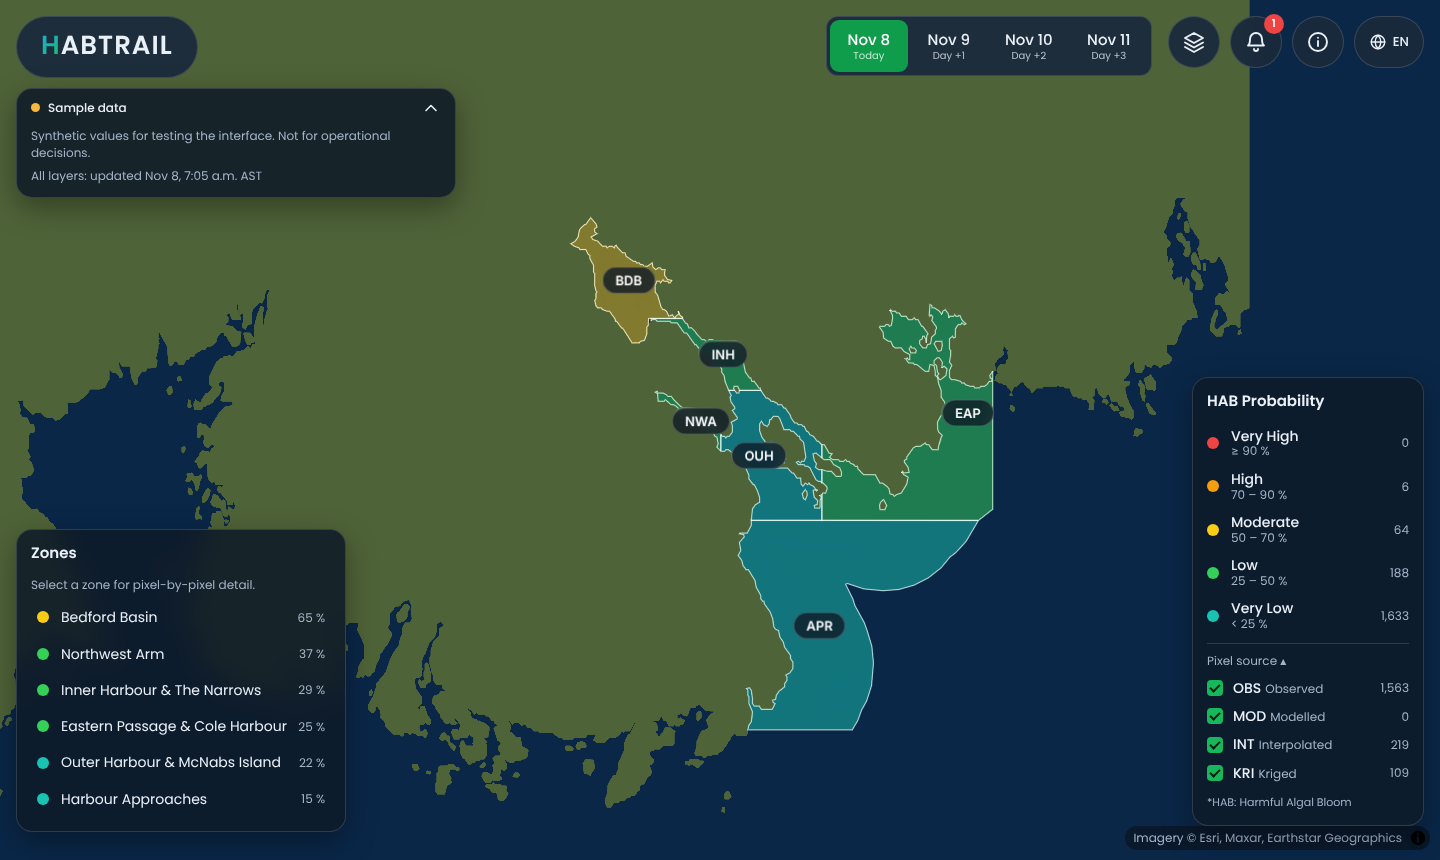
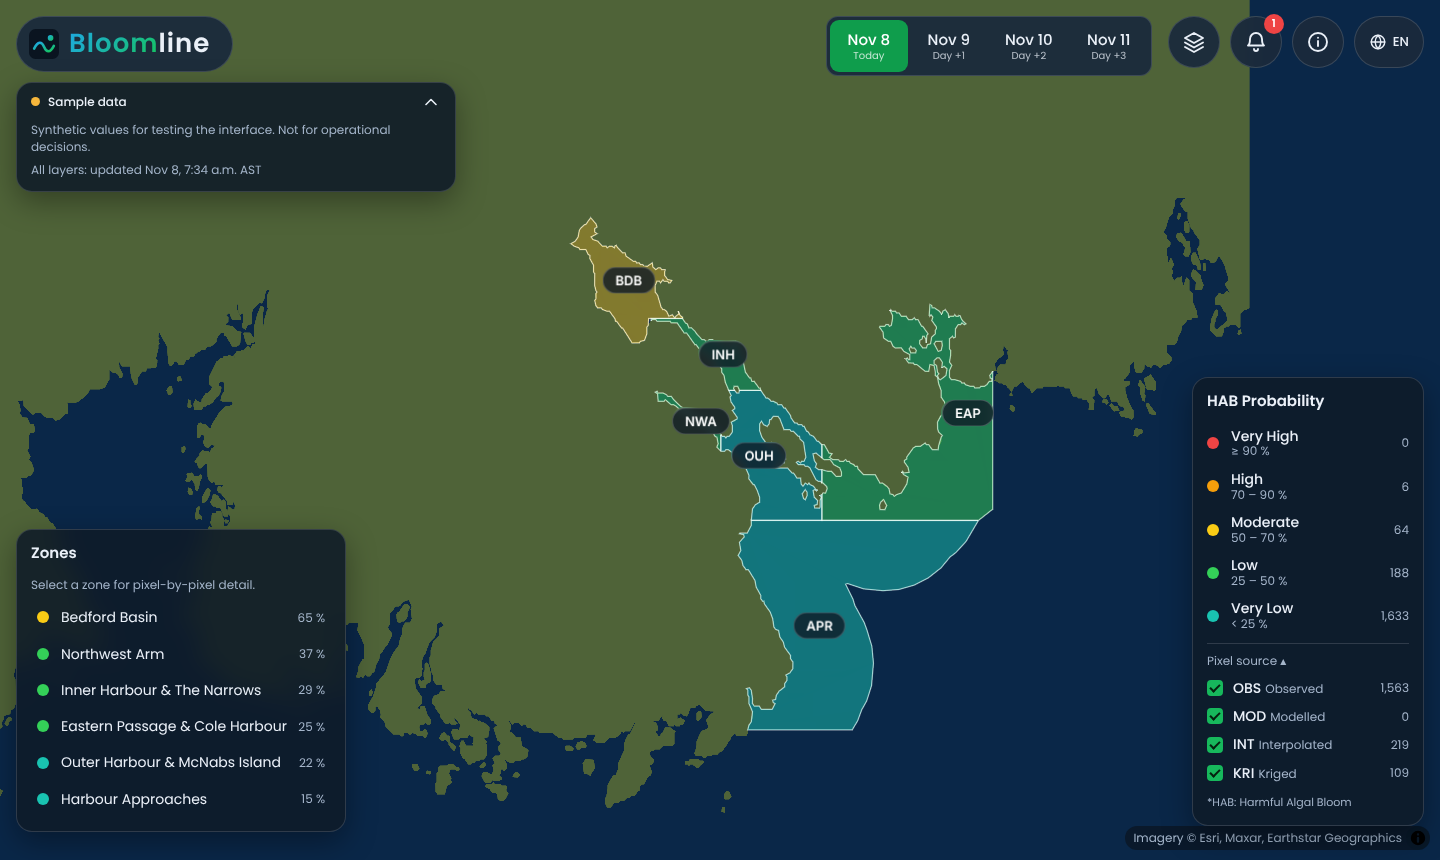
Add files via upload

Changed region(s): [[0.0, 0.0, 0.3125, 0.2419]]

diff --git a/js/i18n.js b/js/i18n.js
@@ -62,16 +62,16 @@ const DICT = {
     'alerts.view': 'View zone',
     'alerts.none': 'No alerts for the next 3 days.',
     'alerts.quiet': 'No alert for: {zones}.',
-    'alerts.sample': 'Sample alerts, worked out from the sample HABtrail layer.',
+    'alerts.sample': 'Sample alerts, worked out from the sample bloom-risk layer.',
     'about.title': 'About this prototype',
-    'about.lead': 'This shows how a HABTRAIL-style forecast dashboard could work for Halifax Harbour. The interface is real. The numbers are not: every value on the map is synthetic until a data pipeline replaces the files in the data folder.',
+    'about.lead': 'This shows how a bloom forecast dashboard could work for Halifax Harbour. The interface is real. The numbers are not: every value on the map is synthetic until a data pipeline replaces the files in the data folder.',
     'about.real.title': 'What is real',
     'about.real.body': 'The coastline, the 300 m pixel grid, the layout and the behaviour. The six zones are hand-drawn for this prototype and are not an official scheme.',
     'about.sample.title': 'What is sample',
     'about.sample.body': 'All layer values, shellfish closures and alerts. Colour thresholds are placeholders to be set with domain input.',
     'about.types.title': 'Pixel sources',
     'about.sources.title': 'Where real data could come from',
-    'about.src.habtrail': 'A trained model, plus bloom or toxin observations for Nova Scotia.',
+    'about.src.bloom': 'A trained model, plus bloom or toxin observations for Nova Scotia.',
     'about.src.satellite': 'Satellite ocean colour or open ocean data. To be confirmed in the data audit.',
     'about.src.insitu': 'In-situ sensors from open ocean data partners. To be confirmed in the data audit.',
     'about.src.closures': 'Regulator closure notices. Source to be confirmed.',
@@ -140,16 +140,16 @@ const DICT = {
     'alerts.view': 'Voir la zone',
     'alerts.none': 'Aucune alerte pour les 3 prochains jours.',
     'alerts.quiet': 'Aucune alerte pour : {zones}.',
-    'alerts.sample': "Alertes d'exemple, calculées à partir de la couche HABtrail d'exemple.",
+    'alerts.sample': "Alertes d'exemple, calculées à partir de la couche de risque de PAN d'exemple.",
     'about.title': 'À propos de ce prototype',
-    'about.lead': "Voici comment un tableau de bord de prévision de type HABTRAIL pourrait fonctionner pour le port de Halifax. L'interface est réelle. Les chiffres ne le sont pas : toutes les valeurs de la carte sont synthétiques tant qu'un pipeline de données ne remplace pas les fichiers du dossier data.",
+    'about.lead': "Voici comment un tableau de bord de prévision des proliférations pourrait fonctionner pour le port de Halifax. L'interface est réelle. Les chiffres ne le sont pas : toutes les valeurs de la carte sont synthétiques tant qu'un pipeline de données ne remplace pas les fichiers du dossier data.",
     'about.real.title': 'Ce qui est réel',
     'about.real.body': "Le trait de côte, la grille de pixels de 300 m, la mise en page et le comportement. Les six zones sont tracées à la main pour ce prototype et ne forment pas un découpage officiel.",
     'about.sample.title': "Ce qui est un exemple",
     'about.sample.body': "Toutes les valeurs des couches, les fermetures de mollusques et les alertes. Les seuils de couleur sont provisoires et seront fixés avec l'avis d'experts.",
     'about.types.title': 'Sources des pixels',
     'about.sources.title': "D'où pourraient venir les vraies données",
-    'about.src.habtrail': "Un modèle entraîné, avec des observations de proliférations ou de toxines pour la Nouvelle-Écosse.",
+    'about.src.bloom': "Un modèle entraîné, avec des observations de proliférations ou de toxines pour la Nouvelle-Écosse.",
     'about.src.satellite': "Couleur de l'océan par satellite ou données océaniques ouvertes. À confirmer lors de l'audit des données.",
     'about.src.insitu': "Capteurs in situ de partenaires de données océaniques ouvertes. À confirmer lors de l'audit des données.",
     'about.src.closures': "Avis de fermeture de l'autorité réglementaire. Source à confirmer.",

diff --git a/css/styles.css b/css/styles.css
@@ -1,5 +1,5 @@
-/* HABTRAIL Halifax Harbour prototype.
-   Look follows the existing HABTRAIL app: dark satellite map, floating dark panels,
+/* Bloomline Halifax Harbour prototype.
+   Dark satellite-map look: dark satellite map, floating dark panels,
    round icon buttons, green active tab. Tokens live in :root. */
 
 @font-face { font-family: "Poppins"; font-weight: 400; font-style: normal; font-display: swap;
@@ -79,11 +79,12 @@ button { font: inherit; color: inherit; }
 .left-stack { display: flex; flex-direction: column; gap: 10px; align-items: flex-start; max-width: 440px; }
 
 .brand {
-  display: inline-flex; align-items: baseline; padding: 10px 24px 12px;
+  display: inline-flex; align-items: center; gap: 10px; padding: 8px 22px 8px 12px;
   border-radius: 999px; background: var(--panel-raised); border: 1px solid var(--line);
   -webkit-backdrop-filter: var(--blur); backdrop-filter: var(--blur);
   font-size: 26px; font-weight: 600; letter-spacing: 0.04em; color: var(--text); text-decoration: none;
 }
+.brand-mark { width: 30px; height: 30px; flex: none; }
 .brand-h { background: linear-gradient(135deg, #1fa7e8, #14c45a); -webkit-background-clip: text; background-clip: text; color: transparent; }
 
 .status { width: 100%; font-size: 12px; }
@@ -236,7 +237,8 @@ body.has-overlay .legend, body.has-overlay .closures { visibility: hidden; }
   .actions { grid-column: 2; grid-row: 1; gap: 5px; }
   .dates { grid-column: 1 / -1; grid-row: 2; justify-content: space-between; }
   .date-tab { flex: 1; min-width: 0; padding: 7px 4px; font-size: 14px; }
-  .brand { font-size: 18px; padding: 6px 14px 8px; }
+  .brand { font-size: 18px; padding: 5px 14px 5px 8px; gap: 6px; }
+  .brand-mark { width: 22px; height: 22px; }
   .round-btn { width: 38px; height: 38px; }
   .round-btn .icon { width: 19px; height: 19px; }
   .lang-btn { height: 38px; padding: 0 9px; font-size: 12px; }

diff --git a/js/main.js b/js/main.js
@@ -1,4 +1,4 @@
-// HABTRAIL Halifax Harbour prototype: controller.
+// Bloomline Halifax Harbour prototype: controller.
 // Flow: state change -> load the files for the active layer -> build one "view" -> push it to the map and panels.
 
 import { h, announce } from './dom.js';
@@ -64,7 +64,7 @@ async function boot() {
   });
   const closures = createClosures({ meta, zones });
   const overlay = createOverlay({ meta, zones }, {
-    onViewZone: (zone, dateIdx) => { set({ overlay: null, layerId: 'habtrail', dateIdx }); selectZone(zone); },
+    onViewZone: (zone, dateIdx) => { set({ overlay: null, layerId: 'bloom', dateIdx }); selectZone(zone); },
   });
   document.getElementById('ui').append(
     topbar.el, h('div', { class: 'dock' }, zonecard.el, legend.el), closures.el, overlay.el, trend.el, tooltip.el);
@@ -87,7 +87,7 @@ async function boot() {
     },
   });
 
-  window.__habtrail = { map: mapApi.map, state };   // debugging and tests only
+  window.__bloomline = { map: mapApi.map, state };   // debugging and tests only
 
   // ----- view building -----
   function zoneColorFromFraction(f) { return f === 0 ? '#34d058' : f <= 0.34 ? '#facc15' : f <= 0.67 ? '#f59e0b' : '#ef4444'; }
@@ -258,10 +258,10 @@ async function boot() {
   await refresh();
   syncHash();
 
-  // alerts come from the HABtrail layer across all forecast dates
-  const hab = layerOf('habtrail');
+  // alerts come from the bloom-risk layer across all forecast dates
+  const hab = layerOf('bloom');
   if (hab) {
-    loadLayerDays('habtrail', meta.dates).then((days) => {
+    loadLayerDays('bloom', meta.dates).then((days) => {
       const alerts = computeAlerts(hab, days, grid.zone, zones.features.length);
       topbar.setAlertCount(alerts.length);
       overlay.setAlerts(alerts);

diff --git a/js/ui/overlay.js b/js/ui/overlay.js
@@ -9,7 +9,7 @@ import { TYPE_CODES } from '../classify.js';
 export function createOverlay({ meta, zones }, { onViewZone }) {
   const el = h('aside', { class: 'overlay panel', hidden: true });
   let alerts = [];
-  const hab = meta.layers.find((l) => l.id === 'habtrail');
+  const hab = meta.layers.find((l) => l.id === 'bloom');
   const zoneName = (i) => pick(zones.features[i].properties, 'name');
 
   const close = () => set({ overlay: null });
@@ -48,7 +48,7 @@ export function createOverlay({ meta, zones }, { onViewZone }) {
         h('dl', null, TYPE_CODES.map((c) => [h('dt', null, `${c}: ${t(`type.${c}`)}`), h('dd', null, t(`type.${c}.info`))])),
         h('h3', null, t('about.sources.title')),
         h('dl', null,
-          h('dt', null, pick(hab, 'label')), h('dd', null, t('about.src.habtrail')),
+          h('dt', null, pick(hab, 'label')), h('dd', null, t('about.src.bloom')),
           h('dt', null, `${pick(meta.layers.find((l) => l.id === 'chla'), 'label')}, SST, ${pick(meta.layers.find((l) => l.id === 'sediments'), 'label')}`), h('dd', null, t('about.src.satellite')),
           h('dt', null, `${pick(meta.layers.find((l) => l.id === 'salinity'), 'label')}, ${pick(meta.layers.find((l) => l.id === 'wqi'), 'label')}`), h('dd', null, t('about.src.insitu')),
           h('dt', null, pick(meta.layers.find((l) => l.id === 'interdictions'), 'label')), h('dd', null, t('about.src.closures'))),

diff --git a/index.html b/index.html
@@ -3,7 +3,7 @@
 <head>
   <meta charset="utf-8">
   <meta name="viewport" content="width=device-width, initial-scale=1, viewport-fit=cover">
-  <title>HABTRAIL · Halifax Harbour prototype</title>
+  <title>Bloomline · Halifax Harbour prototype</title>
   <meta name="description" content="Front-end prototype of a pixel-by-pixel harmful algal bloom forecast dashboard for Halifax Harbour, Nova Scotia. All values are sample data.">
   <meta name="theme-color" content="#0a1420">
   <link rel="icon" href="assets/favicon.svg" type="image/svg+xml">
@@ -15,7 +15,7 @@
   <div id="map" class="map"></div>
   <div id="ui"></div>
   <div id="live" class="sr-only" aria-live="polite"></div>
-  <noscript><p class="noscript">HABTRAIL needs JavaScript to draw the map.</p></noscript>
+  <noscript><p class="noscript">Bloomline needs JavaScript to draw the map.</p></noscript>
 
   <script src="vendor/maplibre-gl/maplibre-gl.js"></script>
   <script type="module" src="js/main.js"></script>

diff --git a/js/alerts.js b/js/alerts.js
@@ -1,4 +1,4 @@
-// Forecast-based alerts, worked out in the browser from the HABtrail layer for all forecast days.
+// Forecast-based alerts, worked out in the browser from the bloom-risk layer for all forecast days.
 // A zone alerts when any of its pixels reaches the "high" class on any forecast day.
 
 import { classIndex } from './classify.js';
@@ -6,7 +6,7 @@ import { classIndex } from './classify.js';
 export const ALERT_LEVELS = ['very_high', 'high'];
 
 /**
- * @param layer     the habtrail layer definition from meta.json (needs classes with ids "very_high" and "high")
+ * @param layer     the bloom layer definition from meta.json (needs classes with ids "very_high" and "high")
  * @param days      array (one per forecast date) of { v: number[] } aligned with the grid
  * @param zoneOfPx  grid.zone
  * @param nZones    number of zones

diff --git a/js/ui/topbar.js b/js/ui/topbar.js
@@ -78,7 +78,7 @@ export function createTopbar({ meta, onLang }) {
 
     root.append(
       h('div', { class: 'left-stack' },
-        h('a', { class: 'brand', href: './', 'aria-label': `HABTRAIL, ${t('brand.tag')}` }, h('span', { class: 'brand-h' }, 'H'), 'ABTRAIL'),
+        h('a', { class: 'brand', href: './', 'aria-label': `Bloomline, ${t('brand.tag')}` }, h('img', { class: 'brand-mark', src: 'assets/favicon.svg', alt: '', width: 30, height: 30 }), h('span', { class: 'brand-word' }, h('span', { class: 'brand-h' }, 'Bloom'), 'line')),
         status),
       dates,
       h('div', { class: 'actions' }, layersBtn, alertsBtn, aboutBtn, langBtn, menu));

diff --git a/js/state.js b/js/state.js
@@ -1,7 +1,7 @@
 // One small store. Modules call set() and subscribe with on().
 
 export const state = {
-  layerId: 'habtrail',
+  layerId: 'bloom',
   dateIdx: 0,
   zoneId: null,                 // index into grid.zones, or null for the all-zones view
   types: { 0: true, 1: true, 2: true, 3: true },   // OBS, MOD, INT, KRI visibility

diff --git a/tests/smoke.py b/tests/smoke.py
@@ -50,11 +50,11 @@ def main():
             errors.append(f"console: {m.text}")
         page.on("console", on_console)
 
-        rendered = lambda layer="pixels": page.evaluate(f"__habtrail.map.queryRenderedFeatures({{layers:['{layer}']}}).length")
+        rendered = lambda layer="pixels": page.evaluate(f"__bloomline.map.queryRenderedFeatures({{layers:['{layer}']}}).length")
         settle = lambda ms=1400: page.wait_for_timeout(ms)
 
         # 1. overview
-        page.goto(a.url + "#layer=habtrail")
+        page.goto(a.url + "#layer=bloom")
         page.wait_for_selector(".zone-pill"); page.wait_for_selector(".date-tab"); settle(1800)
         check("6 zone pills", page.locator(".zone-pill").count() == 6)
         check("4 date tabs", page.locator(".date-tab").count() == 4)
@@ -67,7 +67,7 @@ def main():
         n = rendered(); check("pixels drawn in zone", n > 50, f"{n} rendered")
         check("zone card shows name", "Bedford Basin" in page.locator(".zone-card").inner_text())
         check("legend has 5 classes", page.locator(".legend-row").count() == 5)
-        page.screenshot(path=str(out / "2-zone-habtrail.png"))
+        page.screenshot(path=str(out / "2-zone-bloom.png"))
 
         # 3. date tab changes values
         before = page.locator(".legend-row .count").all_inner_texts()
@@ -78,9 +78,9 @@ def main():
         page.screenshot(path=str(out / "3-zone-day3.png"))
 
         # 3b. hover tooltip on a pixel
-        x, y = page.evaluate("(() => { const m = __habtrail.map, f = m.queryRenderedFeatures({layers: ['pixels']})[5], p = m.project(f.geometry.coordinates), r = document.getElementById('map').getBoundingClientRect(); return [p.x + r.left, p.y + r.top]; })()")
+        x, y = page.evaluate("(() => { const m = __bloomline.map, f = m.queryRenderedFeatures({layers: ['pixels']})[5], p = m.project(f.geometry.coordinates), r = document.getElementById('map').getBoundingClientRect(); return [p.x + r.left, p.y + r.top]; })()")
         page.mouse.move(x - 40, y); page.mouse.move(x, y, steps=4); settle(300)
-        check("hover tooltip shows value and pixel source", page.locator(".tip").is_visible() and "HABtrail" in page.locator(".tip").inner_text(), page.locator(".tip").inner_text().replace("\n", " | ") if page.locator(".tip").is_visible() else "no tooltip")
+        check("hover tooltip shows value and pixel source", page.locator(".tip").is_visible() and "Bloom risk" in page.locator(".tip").inner_text(), page.locator(".tip").inner_text().replace("\n", " | ") if page.locator(".tip").is_visible() else "no tooltip")
         page.screenshot(path=str(out / "3b-hover.png"))
         page.mouse.move(5, 400)
 
@@ -132,10 +132,10 @@ def main():
         page.locator(".lang-btn").click()
 
         # 10. plain basemap + mobile
-        page.goto(a.url + "#layer=habtrail&zone=OUH&basemap=plain"); page.wait_for_selector(".zone-pill"); settle(2200)
+        page.goto(a.url + "#layer=bloom&zone=OUH&basemap=plain"); page.wait_for_selector(".zone-pill"); settle(2200)
         check("deep link opens zone", rendered() > 20, f"{rendered()} px")
         page.screenshot(path=str(out / "10-plain.png"))
-        page.set_viewport_size({"width": 390, "height": 844}); page.goto(a.url + "#layer=habtrail&zone=BDB"); page.reload(); page.wait_for_selector(".zone-pill"); settle(2400)
+        page.set_viewport_size({"width": 390, "height": 844}); page.goto(a.url + "#layer=bloom&zone=BDB"); page.reload(); page.wait_for_selector(".zone-pill"); settle(2400)
         page.screenshot(path=str(out / "11-mobile.png"))
         right_edge = page.evaluate("Math.max(...[...document.querySelectorAll('.round-btn')].map(b => b.getBoundingClientRect().right))")
         check("action buttons fit the phone screen", right_edge <= 390, f"right edge {right_edge:.0f}px")

diff --git a/tools/make_sample_data.py b/tools/make_sample_data.py
@@ -33,7 +33,7 @@ def now_halifax():
         return datetime.now(timezone(timedelta(hours=-4)))
 
 
-# --- class definitions: min inclusive, max exclusive; colours follow the original HABTRAIL ramp ---
+# --- class definitions: min inclusive, max exclusive; colours follow the ramp of the Portuguese reference app ---
 RED, ORANGE, YELLOW, GREEN, TEAL, GREY = "#ef4444", "#f59e0b", "#facc15", "#34d058", "#19c3b1", "#8b95a5"
 
 
@@ -51,10 +51,10 @@ LAYERS = [
         "footnote_fr": "Ces fermetures sont synthétiques. Les vraies fermetures viennent de l'autorité réglementaire.",
     },
     {
-        "id": "habtrail", "type": "pixels", "summary": "p90", "unit": "%", "decimals": 0,
-        "label_en": "HABtrail", "label_fr": "HABtrail",
+        "id": "bloom", "type": "pixels", "summary": "p90", "unit": "%", "decimals": 0,
+        "label_en": "Bloom risk", "label_fr": "Risque de PAN",
         "legend_title_en": "HAB Probability", "legend_title_fr": "Probabilité de PAN",
-        "tooltip_en": "HABtrail", "tooltip_fr": "HABtrail",
+        "tooltip_en": "Bloom risk", "tooltip_fr": "Risque de PAN",
         "footnote_en": "*HAB: Harmful Algal Bloom", "footnote_fr": "*PAN : prolifération d'algues nuisibles",
         "classes": classes([
             ("very_high", "Very High", "Très élevée", 90, INF, RED),
@@ -205,7 +205,7 @@ def main():
         t0[dist < r * 0.55] = KRI
     t0[(rng.random(n) < 0.04) & (t0 == OBS)] = INT
 
-    values = {k: [] for k in ("habtrail", "chla", "sst", "salinity", "wqi", "sediments")}
+    values = {k: [] for k in ("bloom", "chla", "sst", "salinity", "wqi", "sediments")}
     types = []
     for day in range(4):
         nz = 0.85 * base_noise + 0.5 * smooth_noise(rng, K)
@@ -219,7 +219,7 @@ def main():
         wqi = np.clip(92 - 30 * g - 0.55 * excess + 3 * nz2, 4, 99)
         inh_boost = np.array([2.0 if z in ("INH", "NWA") else 0.0 for z in zone_code])
         sed = np.clip(1.4 + 4.2 * g + inh_boost + 0.8 * nz, 0.2, 30)
-        values["habtrail"].append(np.round(hab).astype(int))
+        values["bloom"].append(np.round(hab).astype(int))
         values["chla"].append(np.round(chla, 2)); values["sst"].append(np.round(sst, 1))
         values["salinity"].append(np.round(sal, 1)); values["wqi"].append(np.round(wqi).astype(int))
         values["sediments"].append(np.round(sed, 1))
@@ -238,7 +238,7 @@ def main():
     closed_prev = {}
     for day in range(4):
         zone_max = {}
-        for z, h in zip(zone_code, values["habtrail"][day]):
+        for z, h in zip(zone_code, values["bloom"][day]):
             zone_max[z] = max(zone_max.get(z, 0), int(h))
         payload = {}
         for z, species in ZONE_SPECIES.items():
@@ -285,7 +285,7 @@ def main():
     for lid in values:
         a = np.concatenate([x.astype(float) for x in values[lid]])
         print(f"  {lid:10s} min {a.min():7.2f}  mean {a.mean():7.2f}  max {a.max():7.2f}")
-    h = values["habtrail"]
+    h = values["bloom"]
     for day in range(4):
         print(f"  day {day}: HAB>=70% pixels: {(h[day] >= 70).sum()}, >=90%: {(h[day] >= 90).sum()}")
     print("  types day0:", {k: int((t0 == v).sum()) for k, v in (("OBS", OBS), ("INT", INT), ("KRI", KRI))})

diff --git a/README.md b/README.md
@@ -1,6 +1,6 @@
-# HABTRAIL · Halifax Harbour prototype
+# Bloomline · Halifax Harbour prototype
 
-A front-end prototype of a pixel-by-pixel harmful algal bloom (HAB) forecast dashboard for Halifax Harbour, Nova Scotia. It follows the pattern of the HABTRAIL web app: a dark satellite map, zone view with 300 m pixels, forecast date tabs, layer menu, alerts, and a species closure table.
+A front-end prototype of a pixel-by-pixel harmful algal bloom (HAB) forecast dashboard for Halifax Harbour, Nova Scotia. It uses a familiar forecast-dashboard layout: a dark satellite map, zone view with 300 m pixels, forecast date tabs, layer menu, alerts, and a species closure table.
 
 **Every value on the map is synthetic sample data.** The interface is real; the numbers are not, and the page says so. No model has been built yet. The plan is front end first, then a data audit, then the model on whatever data turns out to be usable.
 
@@ -14,10 +14,10 @@ A front-end prototype of a pixel-by-pixel harmful algal bloom (HAB) forecast das
 - **All-zones view**: six prototype zones coloured by the active layer, with clickable zone pills and a zone list (keyboard reachable).
 - **Zone view**: every 300 m pixel as a dot, coloured by class, with hover or tap values.
 - **Pixel source filter** (OBS observed, MOD modelled, INT interpolated, KRI kriged): show or hide pixels by where their value came from, with counts. This is the map-level filter requested in action A-05.
-- **Layers**: HABtrail, Chlorophyll-a, SST, Salinity, Water Quality Index, Sediments (suspended matter), Shellfish closures.
+- **Layers**: Bloom risk, Chlorophyll-a, SST, Salinity, Water Quality Index, Sediments (suspended matter), Shellfish closures.
 - **Forecast dates**: today plus three days. Layers, legend counts, alerts and the closure table all follow the selected date.
 - **Select area**: drag a box over pixels and get a trend card (line over the four dates with a dashed average).
-- **Alerts**: worked out in the browser from the HABtrail layer for all forecast days (any pixel at or above the "high" class).
+- **Alerts**: worked out in the browser from the bloom-risk layer for all forecast days (any pixel at or above the "high" class).
 - **English and French**, **satellite or plain basemap**, **shareable links** (`#layer=chla&date=2026-11-09&zone=BDB&lang=fr`), phone layout, keyboard focus, reduced motion.
 
 ## Run it
@@ -46,7 +46,7 @@ Then in the repository: **Settings → Pages → Build and deployment → Deploy
 
 ```
 index.html            page shell
-css/styles.css        design tokens and layout (look follows the HABTRAIL app)
+css/styles.css        design tokens and layout
 js/main.js            controller: state change -> load files -> one view -> map + panels
 js/map.js             MapLibre: imagery, zones, pixel dots, zone pills, area selection
 js/ui/*.js            top bar, legend, zone card, closures table, alerts/about, trend chart, tooltip

diff --git a/docs/DATA_CONTRACT.md b/docs/DATA_CONTRACT.md
@@ -49,7 +49,7 @@ Polygon features. Required properties: `id` (equals position in the file), `code
 
 **Pixel layer** (`type: "pixels"`): `id`, `label_en/fr`, `unit`, `decimals`, `legend_title_en/fr`, `tooltip_en/fr`, `footnote_en/fr`, `summary` (`mean`, `p90` or `p10`: how a zone's pixels are reduced to one colour in the all-zones view), `updated` (ISO time with offset), `source`, and `classes[]`.
 
-**Classes** run from highest to lowest severity. Each has `id`, `label_en/fr`, `min` (inclusive), `max` (exclusive), `color`. Use `null` for an open end. The first class that matches wins. The HABtrail layer must have classes with ids `very_high` and `high`: alerts are computed from them.
+**Classes** run from highest to lowest severity. Each has `id`, `label_en/fr`, `min` (inclusive), `max` (exclusive), `color`. Use `null` for an open end. The first class that matches wins. The bloom-risk layer must have classes with ids `very_high` and `high`: alerts are computed from them.
 
 **Table layer** (`type: "table"`): the shellfish closures layer.
 
